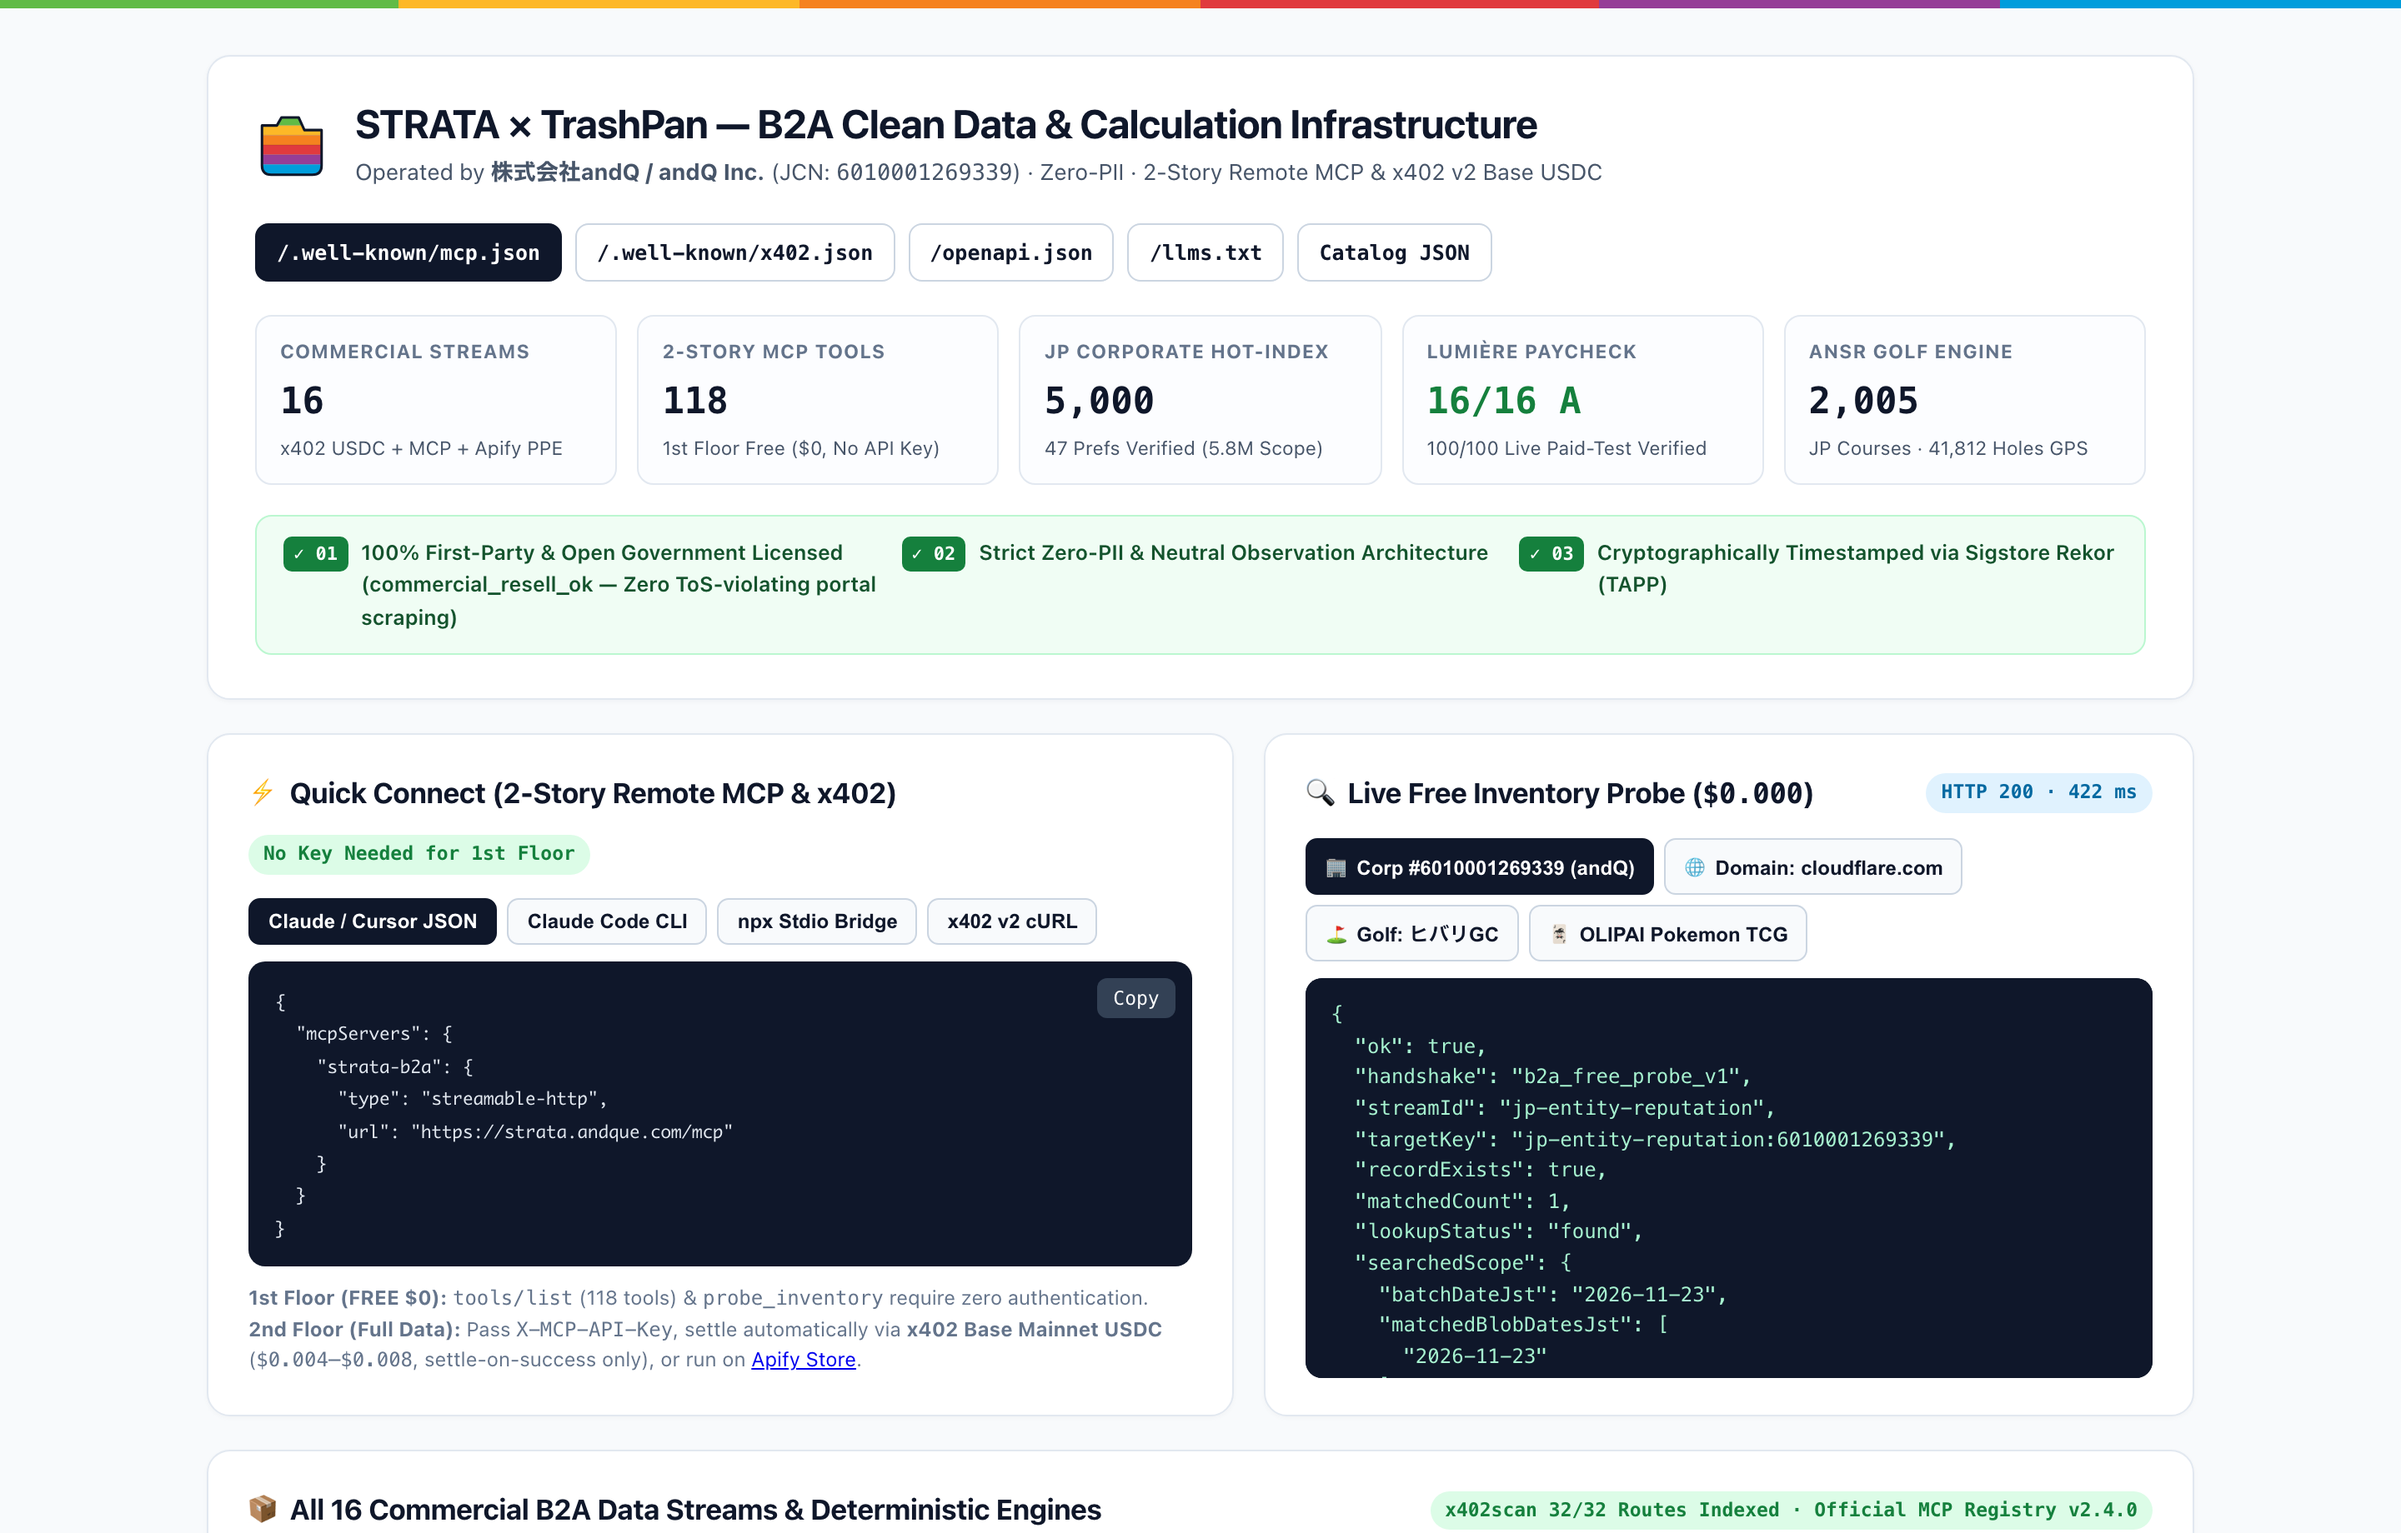
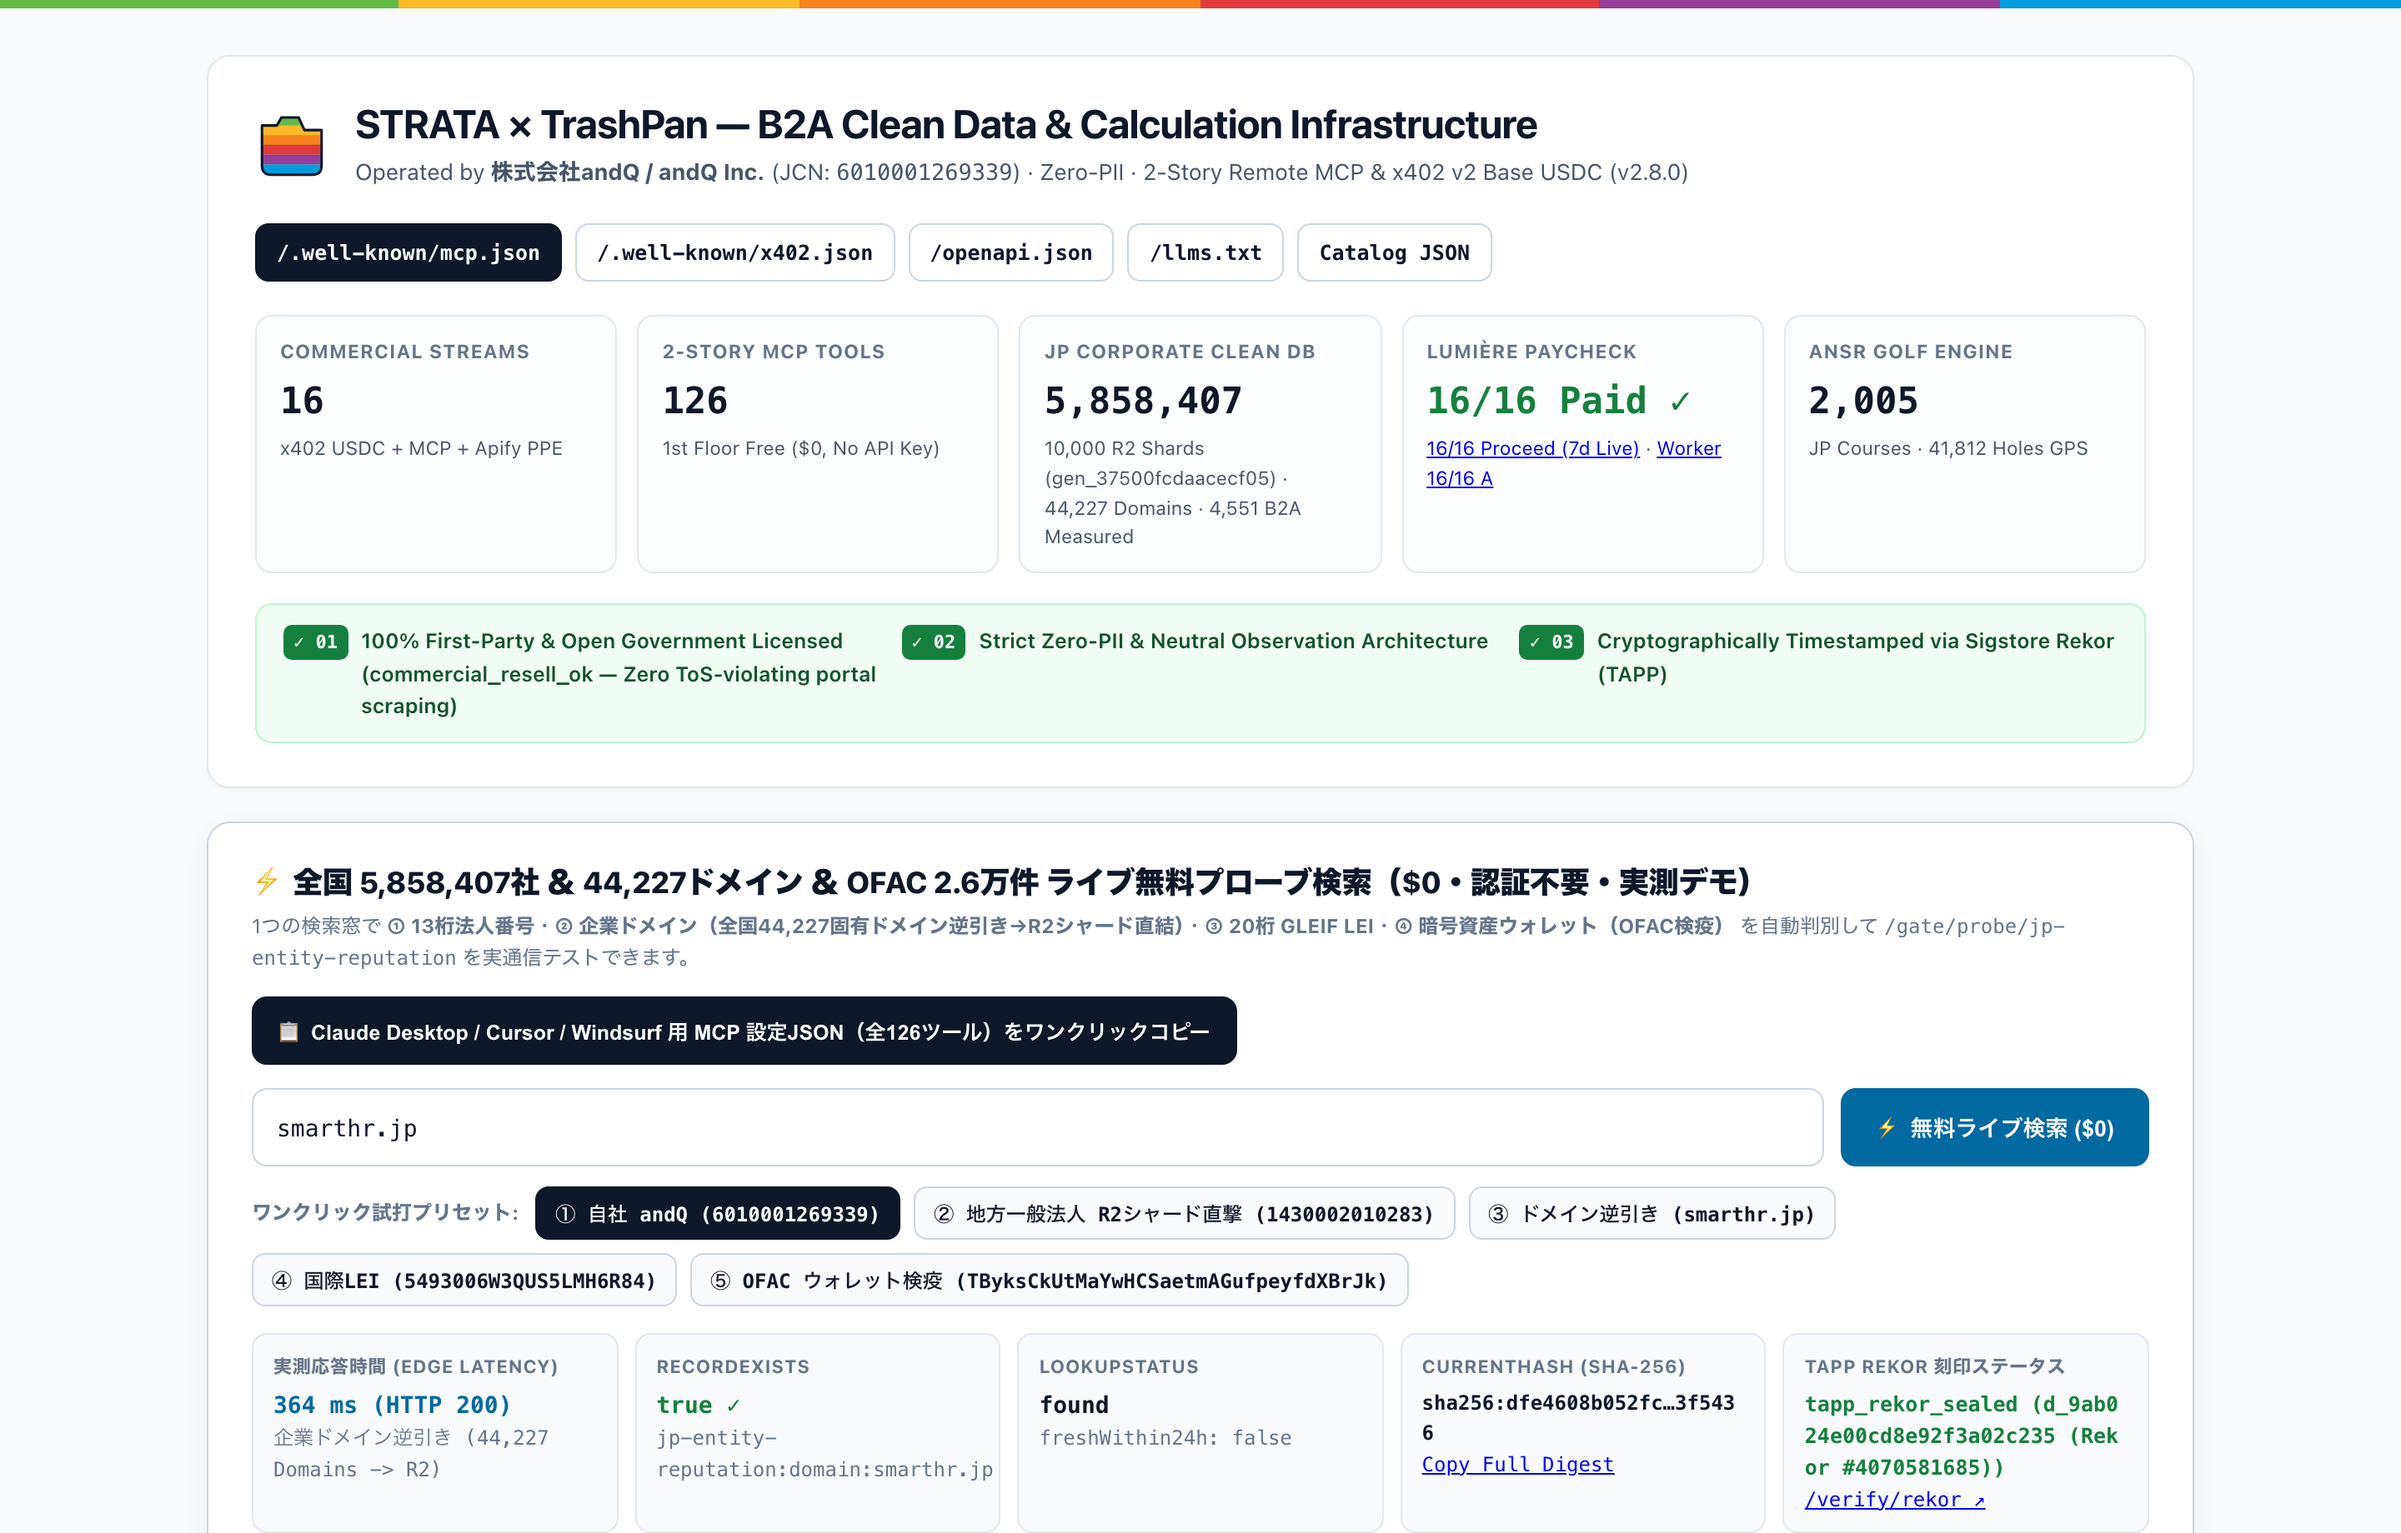
docs(phase6): sync Retina storefront preview & 14,053 Official Gazette corporate notices (v2.8.0)

diff --git a/README.md b/README.md
@@ -108,7 +108,7 @@ claude mcp add --transport http strata-b2a https://strata.andque.com/mcp
 | **14** | `jp-places-poi-geospatial-intel`<br>(`jp_places_poi_geospatial_intel`) | `$0.005` | [`andque/jp-places-poi-geospatial-intel`](https://apify.com/andque/jp-places-poi-geospatial-intel) | 100% Legal Japan Area POI, GSI Geocoding & 1m Laser Elevation, NIED J-SHIS Seismic Hazard, MHLW Hospitals & PLATEAU 3D |
 | **15** | `olipai-jp-tcg-collectibles-market`<br>(`olipai_jp_tcg_collectibles_market`) | `$0.006` | [`andque/olipai-jp-tcg-collectibles-market`](https://apify.com/andque/olipai-jp-tcg-collectibles-market) | OLIPAI Japan Trading Card Game (Pokemon / JP Collector Foil MTG / Yu-Gi-Oh!) Secondary Market Floor Price & Cross-Venue Spread |
 | **16** | `jp-academic-rnd-patent-citation-feed`<br>(`jp_academic_rnd_patent_citation_feed`) | `$0.006` | [`andque/jp-academic-rnd-patent-citation-feed`](https://apify.com/andque/jp-academic-rnd-patent-citation-feed) | Japan Academic R&D High-Citation Papers (OpenAlex CC0), Biomedical/AI Articles (NIH PubMed) & JPO Patent Citations |
-| **17** | **`jp-entity-reputation`**<br>(`jp_entity_reputation`) | **`$0.006`** | [`andque/jp-entity-reputation`](https://apify.com/andque/jp-entity-reputation) | **Japan Corporate Clean Stratigraphy DB, Co-Located Address Density, 44,227-Domain Reverse Lookup, GLEIF LEI, OFAC Sanctions & Counterparty Reputation Intelligence (`5,858,407 Japanese Corporations across All 10,000 R2 Shards [gen_37500fcdaacecf05, 2,475,488 Active NTA Invoices, 164,140 High-Density 50+ Address Corps]` + `107,126 D1 Domain & B2B Directory Index [45,968 Domained Corps / 44,227 Unique Domains -> R2 Shards]` + `4,551 Live B2A Readiness Tier & SPF/DMARC Measured Corporations` + `5,000 Verified D1 Hot-Index Corporations` + `62,630 Unified Gov Qualification A–D Grade Corporations` + `3,061 EDINET v2 Going Concern & Amendment Filings` + `4,357 GLEIF JP LEI Corporations` + `26,364 OFAC Clean Organizational Entities, AKAs & Crypto Wallets` / Batch up to 1,000 corps or domains at `$0.006` flat)** |
+| **17** | **`jp-entity-reputation`**<br>(`jp_entity_reputation`) | **`$0.006`** | [`andque/jp-entity-reputation`](https://apify.com/andque/jp-entity-reputation) | **Japan Corporate Clean Stratigraphy DB, Co-Located Address Density, 44,227-Domain Reverse Lookup, GLEIF LEI, OFAC Sanctions & Counterparty Reputation Intelligence (`5,858,407 Japanese Corporations across All 10,000 R2 Shards [gen_37500fcdaacecf05, 2,475,488 Active NTA Invoices, 164,140 High-Density 50+ Address Corps]` + `107,126 D1 Domain & B2B Directory Index [45,968 Domained Corps / 44,227 Unique Domains -> R2 Shards]` + `4,551 Live B2A Readiness Tier & SPF/DMARC Measured Corporations` + `14,053 Official Gazette (Kanpo) Statutory & Financial Settlement Notices [10,758 JCN-Matched / 1,107 Balance-Sheet Settlements]` + `5,000 Verified D1 Hot-Index Corporations` + `62,630 Unified Gov Qualification A–D Grade Corporations` + `3,061 EDINET v2 Going Concern & Amendment Filings` + `4,357 GLEIF JP LEI Corporations` + `26,364 OFAC Clean Organizational Entities, AKAs & Crypto Wallets` / Batch up to 1,000 corps or domains at `$0.006` flat)** |
 
 ---
 
